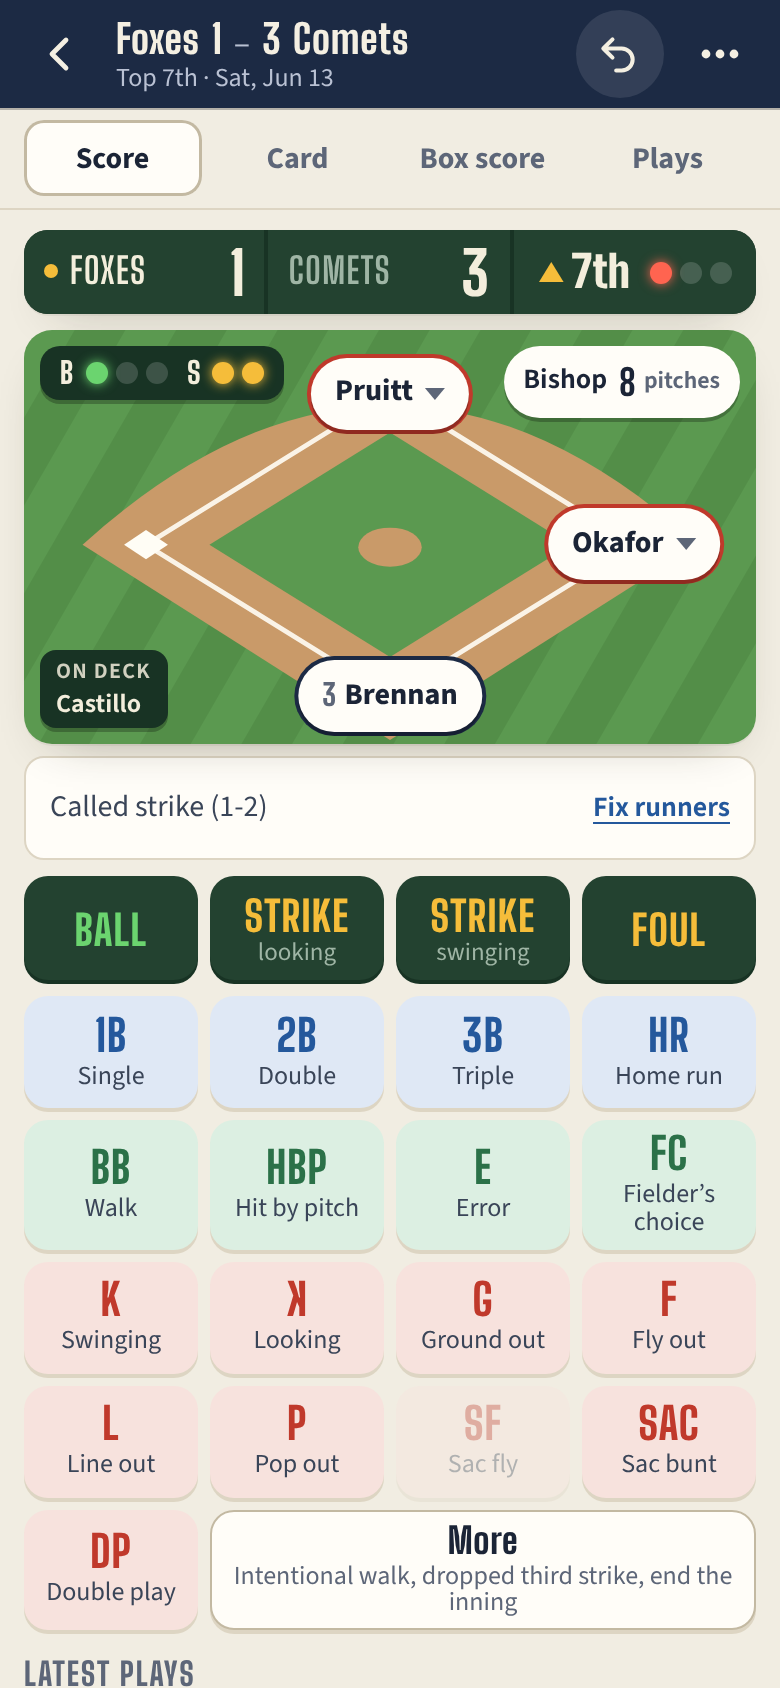
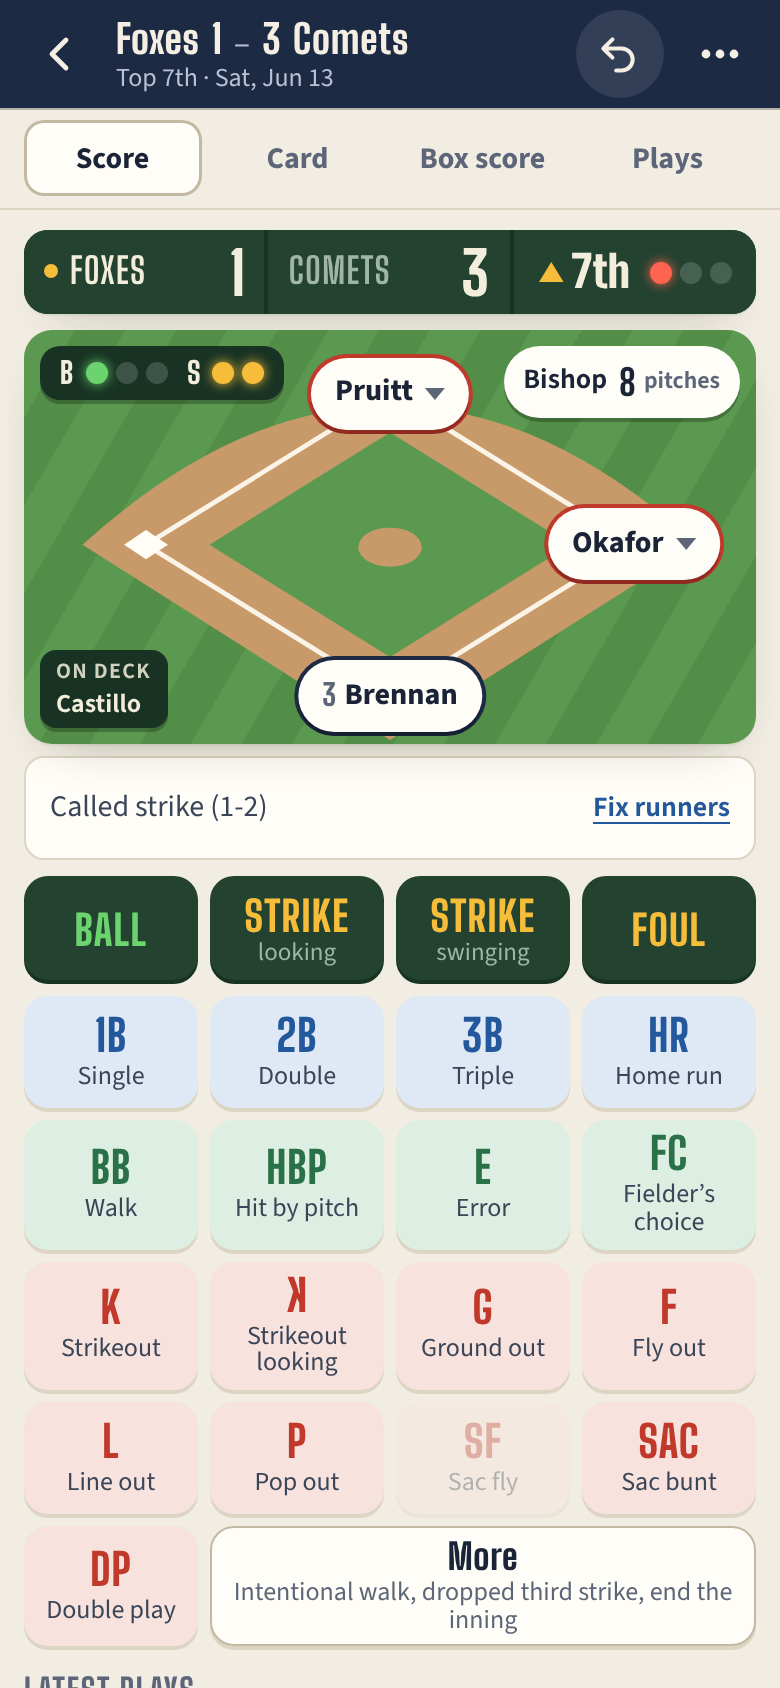
The strikeout buttons say "Strikeout" and "Strikeout looking"
Under the K and the backwards K the buttons said only "Swinging" and
"Looking", right below the Strike looking and Strike swinging pitch
buttons, so someone who doesn't know K is a strikeout could end an
at-bat meaning to call a strike. They now say "Strikeout" and
"Strikeout looking". "Strikeout swinging" was tried first: on a tablet
held sideways at 1024x768 it pushed More 1 px past the bottom, so the
K stays plain "Strikeout". On a phone, "Strikeout looking" takes two
lines like "Fielder's choice", and that row of buttons is 8 px taller.
In a box, the choices read "Strikeout swinging" and "Strikeout
looking" instead of "Strikeout swinging" and "K looking". The README's
phone and tablet pictures are redrawn.

Claude-Session: https://claude.ai/code/session_0157za5jQT97q7xA8DmFNyQL

Changed region(s): [[0.0308, 0.7393, 0.9846, 1.0]]

diff --git a/js/game.js b/js/game.js
@@ -362,7 +362,7 @@ function liveHtml() {
     <div class="pad results" role="group" aria-label="What the batter did">
       <div class="row4 g-hit" role="group" aria-label="Hits">${res('1B', '1B', 'Single')}${res('2B', '2B', 'Double')}${res('3B', '3B', 'Triple')}${res('HR', 'HR', 'Home run')}</div>
       <div class="row4 g-on" role="group" aria-label="On base without a hit">${res('BB', 'BB', 'Walk')}${res('HBP', 'HBP', 'Hit by pitch')}${res('E', 'E', 'Error')}${res('FC', 'FC', 'Fielder’s choice')}</div>
-      <div class="row4 g-out" role="group" aria-label="Outs">${res('K', 'K', 'Swinging')}${res('KL', KL, 'Looking')}${res('GO', 'G', 'Ground out')}${res('FO', 'F', 'Fly out')}
+      <div class="row4 g-out" role="group" aria-label="Outs">${res('K', 'K', 'Strikeout')}${res('KL', KL, 'Strikeout looking')}${res('GO', 'G', 'Ground out')}${res('FO', 'F', 'Fly out')}
         ${res('LO', 'L', 'Line out')}${res('PU', 'P', 'Pop out')}${res('SF', 'SF', 'Sac fly')}${res('SAC', 'SAC', 'Sac bunt')}
         ${res('DP', 'DP', 'Double play')}<button type="button" class="res r-more" data-a="more"><b>More</b><span>Intentional walk, dropped third strike, end the inning</span></button></div>
     </div>
@@ -955,7 +955,7 @@ function cellSheet(c) {
     <div class="cell-big"><div class="cell-pic">${cellSvg(c, { count: G.pitches })}</div>
       <div><p><b>${markHtml(c.r, c.mark)}</b> ${esc(R.label)}</p><p>${esc(c.text)}</p>${c.story.length ? `<p>${esc(c.story.join(' '))}</p>` : ''}
       ${seq ? `<p class="quiet">Pitches: ${esc(seq)}.</p>` : ''}</div></div>
-    ${group ? `<h3>Change what it was</h3><div class="chips wide" role="group" aria-label="What it was">${group.map(k => `<button type="button" data-sw="${k}" aria-pressed="${k === c.r}"${why[k] && k !== c.r ? ` disabled title="${esc(why[k])}"` : ''}>${k === 'KL' ? KL + ' looking' : esc(RESULTS[k].label)}</button>`).join('')}</div>` : ''}
+    ${group ? `<h3>Change what it was</h3><div class="chips wide" role="group" aria-label="What it was">${group.map(k => `<button type="button" data-sw="${k}" aria-pressed="${k === c.r}"${why[k] && k !== c.r ? ` disabled title="${esc(why[k])}"` : ''}>${esc(RESULTS[k].label)}</button>`).join('')}</div>` : ''}
     ${group && e.t === 'pa' && (R.f || c.f) ? `<div class="row"><button type="button" class="btn quiet" data-y="f">Change the fielders${c.f ? ` (${esc(c.f.join('-'))})` : ''}</button></div>` : ''}
     ${!readOnly && e && !group ? '<p class="hint">This one can’t be changed here. Undo takes plays back, latest first, and until the next batter’s turn is over, Fix runners changes where everyone ended up on the play before.</p>' : ''}
     <div class="row"><button type="button" class="btn primary" data-close>Done</button></div>`);
